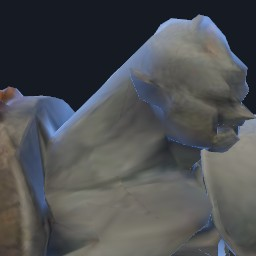
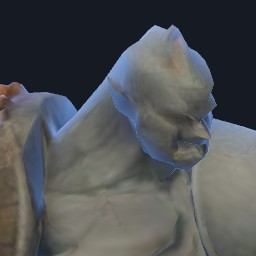
Four faces taken again; the roadmap's note on the pass
Claude-Session: https://claude.ai/code/session_01GPN8sSQHwGCWFQoAwBao4h

diff --git a/docs/ROADMAP.md b/docs/ROADMAP.md
@@ -520,6 +520,30 @@ read at a glance.
   twenty-seven plates a frame and cost about twenty draws; the wells and the portraits' finishes
   went back to plain nodes.)
 
-Not done: a champion's model shown in champion select (the seats are still badges of initials);
-a real GPU's frame times (`?bench=1`) for the three shaders; the WebGPU module's pictures (it
+Not done: a real GPU's frame times (`?bench=1`) for the three shaders; the WebGPU module's pictures (it
 lints and the shaders are the same WGSL, but only WebGL2's were shot).
+
+## 11. Faces
+
+A pass over every screen's picture (`scripts/e2e.sh ui`), worst first. What it found was the
+portraits.
+
+- **The live portrait was empty for some champions, and for any ally on the move.** Its camera
+  framed a fixed height in front of the body, from the frame before's place. Kesh's stance
+  crouches under that frame (a red square where its face should be, the whole match); a guard's
+  stance turns the head away; at a low frame rate a running ally had left its own picture. The
+  camera now reads this frame's transforms (after the propagation, before the frusta), frames the
+  face over the neck's top by the head's own length, and stands square to the shoulders, eased.
+  Only where bones are is read, never how they're turned: on these machine-made rigs a head's
+  skin doesn't always follow its bone's turn (Brun's face, by its bone, was the back of his
+  head). What a champion holds is left out of its portrait: a raised shield hid Liora and Pell.
+- **A face a champion** (`faces.rs`, `web/assets/portraits/`, 221 kB for the twenty): where a
+  champion was two letters on a coloured square (champion select's rows, card and bench, the
+  scoreboard, the target frame) it's its face, taken from that same portrait in a sitting
+  (`scripts/e2e.sh faces`). The initials stay underneath for a file that isn't in.
+- The HUD's line is kills / deaths / assists (the champion's own assists were sent and not shown).
+
+Seen and left: the scoreboard has no assists, minions or gold for the others (not on the wire: a
+protocol change); a champion on the Causeway is small and dark against the paving at the default
+height (a real GPU's picture should judge that, not SwiftShader's); Brun's and Brakka's faces are
+a profile and a three-quarter (their stances: a sitting in a pose of its own would square them).
